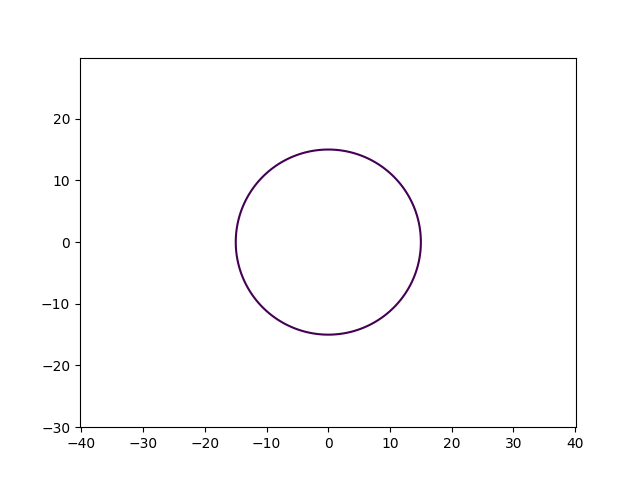
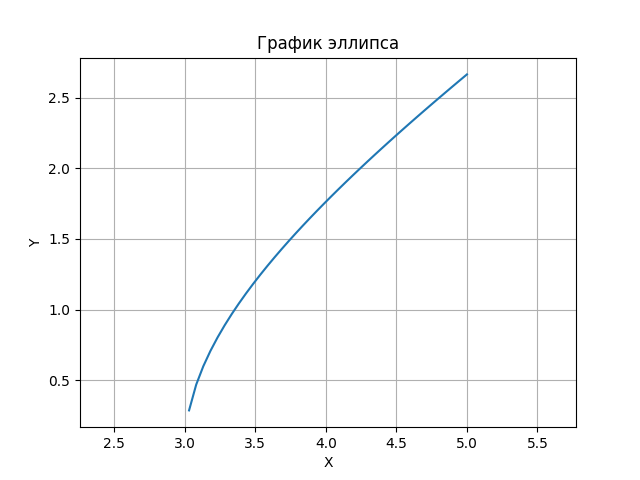
lab

diff --git a/task_4.py b/task_4.py
@@ -1,0 +1,34 @@
+import numpy as np
+import matplotlib.pyplot as plt
+
+def plot_logarithmic_spiral(b = 4):
+    phi = np.linspace(0, 8*np.pi, 1000)
+    r = np.exp**(b * phi)
+    
+    plt.polar(phi, r)
+    plt.title('Логарифмическая спираль')
+    plt.savefig('fig_task_4_1.png')
+
+def plot_archimedean_spiral(k = 1):
+    phi = np.linspace(0, 8*np.pi, 1000)
+    r = k * phi
+    
+    plt.polar(phi, r)
+    plt.title('Архимедова спираль')
+    plt.savefig('fig_task_4_2.png')
+
+def plot_staff_spiral(k = 2):
+    phi = np.linspace(0.01, 8*np.pi, 1000)
+    r = k / np.sqrt(phi)
+    
+    plt.polar(phi, r)
+    plt.title('Спираль «жезл»')
+    plt.savefig('fig_task_4_3.png')
+
+def plot_polar_rose(k = 0.2):
+    phi = np.linspace(0, 2*np.pi, 1000)
+    r = np.sin(k * phi)
+    
+    plt.polar(phi, r)
+    plt.title('Роза')
+    plt.savefig('fig_task_4_4.png')

diff --git a/task_3.py b/task_3.py
@@ -1,19 +1,20 @@
-import matplotlib.pyplot as plt
 import numpy as np
+import matplotlib.pyplot as plt
 
-def circle_plotter(r=15, a = 5, b = 2):
-
-    x = np.arange(-2*r, 2*r, 0.1)
-    y = np.arange(-2*r, 2*r, 0.1)
-
+def ellipse(N, a = 0.5, b = 0.2):
+    x = np.linspace(-1, 1, N)
+    y = np.linspace(-1, 1, N)
+    elips = (X**2)/(a**2) + (Y**2)/(b**2) - 1
+    
     X, Y = np.meshgrid(x, y)
-
-    fxy = (x**2 / a**2) + (y**2 / b**2) = 1
-
-    plt.contour(X, Y, fxy, levels=[0])
+    plt.contour(x, y, elips, levels=[0])
+    plt.xlabel('X')
+    plt.ylabel('Y')
+    plt.title('График эллипса')
     plt.axis('equal')
+    plt.grid(True)
     
     plt.savefig('fig_task_3.png')
     
 if __name__ == '__main__':
-	circle_plotter()
+    ellipse(100)
